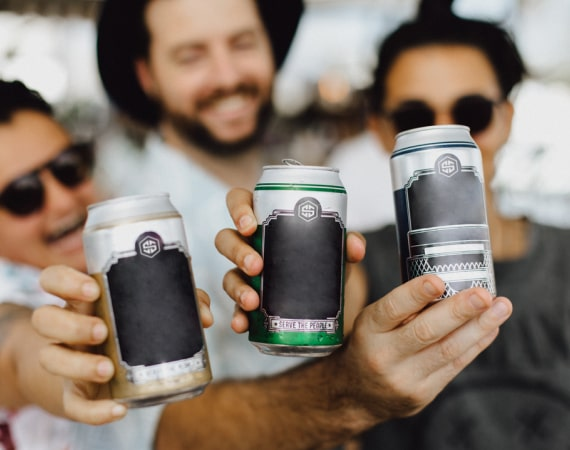
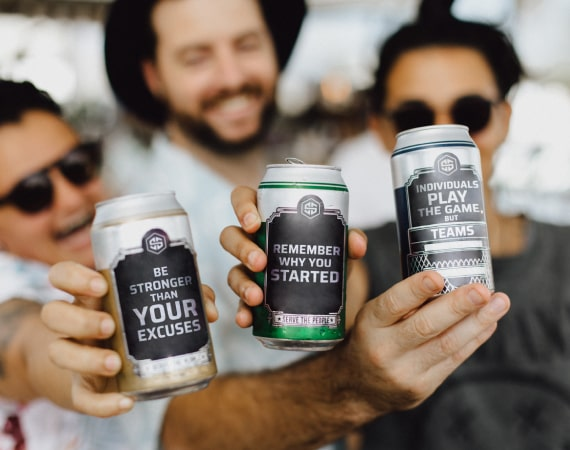
update

diff --git a/pages/services/cyber-consultants.vue b/pages/services/cyber-consultants.vue
@@ -94,7 +94,7 @@
       <div class="col-md-6">
         <div class="img-holder">
           <img
-            data-src="@/assets/images/img-084.jpg"
+            data-src="@/assets/images/img-093.jpg"
             class="lazyload"
             alt="#"
           />
@@ -281,7 +281,27 @@
       </div>
     </txt-block>
 
-    <PlyrSection :file-name="'vid-01.mp4'" />
+    <visual-section :class="'img-pos1 second-section'">
+      <div
+        class="row flex-col flex-column-reverse flex-md-row justify-content-between"
+      >
+        <div class="col-md-6">
+          <div class="img-holder">
+            <img
+              data-src="@/assets/images/img-094.png"
+              class="lazyload"
+              alt="#"
+            />
+          </div>
+        </div>
+        <div class="col-md-6 d-flex align-items-md-center">
+          <div class="content-holder">
+            <h2 class="h1">Lorem ipsum Lorem ipsum Lorem ipsum Lorem ipsum</h2>
+          </div>
+        </div>
+      </div>
+    </visual-section>
+
     <quote-section>
       <p>
         Lorem ipsum dolor sit amet, consectetur adipiscing elit. <br />
@@ -297,7 +317,6 @@ import IntroSection from '@/components/IntroSection/IntroSection.vue'
 import TxtBlock from '@/components/TxtBlock/TxtBlock.vue'
 import VisualSection from '@/components/VisualSection/VisualSection.vue'
 import QuoteSection from '@/components/QuoteSection/QuoteSection.vue'
-import PlyrSection from '@/components/PlyrSection/PlyrSection.vue'
 import ButtonsSection from '@/components/ButtonsSection/ButtonsSection.vue'
 
 export default {
@@ -307,7 +326,6 @@ export default {
     TxtBlock,
     VisualSection,
     QuoteSection,
-    PlyrSection,
     ButtonsSection,
   },
 }
@@ -319,6 +337,35 @@ export default {
     &.style2 {
       @include media-breakpoint-up(md) {
         padding-bottom: 20rem;
+      }
+    }
+  }
+
+  .visual-section {
+    &.second-section {
+      @include media-breakpoint-up(md) {
+        margin-bottom: 20rem;
+      }
+
+      @include media-breakpoint-down(md) {
+        padding-bottom: 3rem;
+        margin-bottom: 10rem;
+      }
+
+      .row {
+        @include media-breakpoint-down(md) {
+          min-height: 58.7rem;
+        }
+      }
+
+      .img-holder {
+        left: 0;
+        right: unset;
+
+        @include media-breakpoint-down(md) {
+          position: relative;
+          margin: 0 -2.4rem;
+        }
       }
     }
   }
